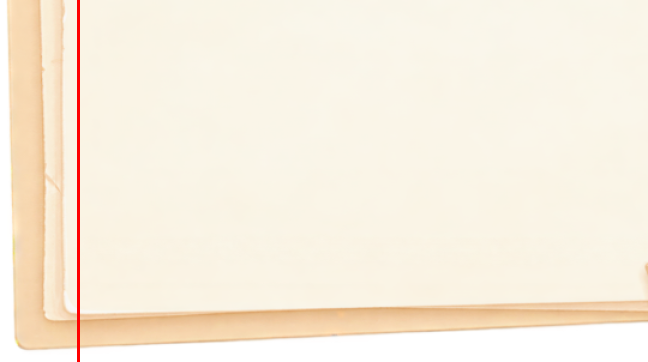
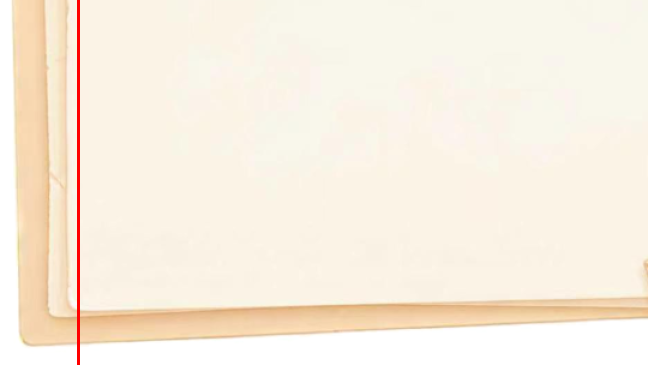
小程序: 信纸九宫格换新构图切图,白底 JPG 转真透明重切 v4 切片

Changed region(s): [[0.0, 0.0, 1.0, 0.9724], [0.9877, 0.6989, 1.0, 0.7293]]

diff --git a/miniapp/src/features/main/MiniappNestLetter.tsx b/miniapp/src/features/main/MiniappNestLetter.tsx
@@ -6,15 +6,15 @@ import './MiniappNestLetter.scss'
 // 切片由 miniapp/tools/make-letter-paper-slices.mjs 生成，切线见该脚本 SLICE 常量。
 // 文件名带版本号（-v2/-v3）：同路径图片会被开发者工具缓存供旧图，换图必须升文件名。
 const paperTiles = {
-  tl: require('../../assets/nest/letter-paper-tl-v2.png'),
-  tc: require('../../assets/nest/letter-paper-tc-v2.png'),
-  tr: require('../../assets/nest/letter-paper-tr-v2.png'),
-  ml: require('../../assets/nest/letter-paper-ml-v2.png'),
-  mc: require('../../assets/nest/letter-paper-mc-v2.png'),
-  mr: require('../../assets/nest/letter-paper-mr-v2.png'),
-  bl: require('../../assets/nest/letter-paper-bl-v2.png'),
-  bc: require('../../assets/nest/letter-paper-bc-v2.png'),
-  br: require('../../assets/nest/letter-paper-br-v3.png'),
+  tl: require('../../assets/nest/letter-paper-tl-v4.png'),
+  tc: require('../../assets/nest/letter-paper-tc-v4.png'),
+  tr: require('../../assets/nest/letter-paper-tr-v4.png'),
+  ml: require('../../assets/nest/letter-paper-ml-v4.png'),
+  mc: require('../../assets/nest/letter-paper-mc-v4.png'),
+  mr: require('../../assets/nest/letter-paper-mr-v4.png'),
+  bl: require('../../assets/nest/letter-paper-bl-v4.png'),
+  bc: require('../../assets/nest/letter-paper-bc-v4.png'),
+  br: require('../../assets/nest/letter-paper-br-v4.png'),
 }
 
 const PAPER_TILE_NAMES = ['tl', 'tc', 'tr', 'ml', 'mc', 'mr', 'bl', 'bc', 'br'] as Array<keyof typeof paperTiles>

diff --git a/miniapp/src/features/main/miniappPresentation.test.ts b/miniapp/src/features/main/miniappPresentation.test.ts
@@ -169,9 +169,9 @@ describe('miniapp ui presentation rules', () => {
 
     expect(nestView).toContain('<MiniappNestLetter')
     expect(nestView).toContain('记录你和小多利的共同生活。')
-    expect(component).toContain('letter-paper-tl-v2.png')
-    expect(component).toContain('letter-paper-mc-v2.png')
-    expect(component).toContain('letter-paper-br-v3.png')
+    expect(component).toContain('letter-paper-tl-v4.png')
+    expect(component).toContain('letter-paper-mc-v4.png')
+    expect(component).toContain('letter-paper-br-v4.png')
     expect(component).not.toContain('letter-paper.png\'')
     expect(component).toContain('<XiaoduoliBoxScene')
     expect(component).not.toContain('empty-puppy.png')
@@ -188,8 +188,8 @@ describe('miniapp ui presentation rules', () => {
     expect(styles).toContain('&--br { grid-area: 3 / 3; }')
     expect(styles).not.toContain('.nest-letter__plant')
     expect(styles).toContain('.nest-letter__body')
-    expect(manifest).toContain('nest/letter-paper-tl-v2.png')
-    expect(manifest).toContain('nest/letter-paper-br-v3.png')
+    expect(manifest).toContain('nest/letter-paper-tl-v4.png')
+    expect(manifest).toContain('nest/letter-paper-br-v4.png')
     expect(manifest).not.toContain('nest/letter-paper.png"')
     expect(manifest).not.toContain('nest/empty-puppy.png')
     expect(manifest).not.toContain('nest/empty-plant-large.png')

diff --git a/miniapp/src/features/main/MiniappNestLetter.scss b/miniapp/src/features/main/MiniappNestLetter.scss
@@ -16,10 +16,10 @@
   overflow: hidden;
 }
 
-// 切线比例来自 tools/make-letter-paper-slices.mjs（内容 720×549，切线 left 65 / right 504 / top 210 / bottom 296）：
-// 轨道按 680rpx 卡宽 × 680/720 自然比例折算（61 / 204 / 198 / 239），
+// 切线比例来自 tools/make-letter-paper-slices.mjs（v2 源图内容 720×553，切线 left 65 / right 504 / top 212 / bottom 298）：
+// 轨道按 680rpx 卡宽 × 680/720 自然比例折算（61 / 204 / 200 / 241），
 // 中列宽度恰好等于切片自然宽、只有中行纵向拉伸，且中带是纯色纸面净区，接缝无错位；
-// br 块用手动微调版 letter-paper-br-v3.png（信封装饰下移 7px），脚本不覆盖
+// 全部 9 块由脚本统一输出（v4 起不再有 br 手调版）
 .nest-letter__paper {
   position: absolute;
   top: 0;
@@ -28,7 +28,7 @@
   left: 0;
   display: grid;
   grid-template-columns: 61rpx 1fr 204rpx;
-  grid-template-rows: 198rpx 1fr 239rpx;
+  grid-template-rows: 200rpx 1fr 241rpx;
 }
 
 .nest-letter__tile {

diff --git a/docs/features/miniapp.md b/docs/features/miniapp.md
@@ -38,7 +38,7 @@ flowchart LR
 ### 小程序主界面补充
 
 - 小窝、消息、我的页标题下保留简介；主内容区上边距收紧，底部导航位置不变。
-- 无好友时，小窝邀请界面上方是小多利在纸箱里探头左顾右盼，中部信纸信件（九宫格切片渲染：四角固定不变形、四边单轴拉伸、中心净区补余量；整封信不分段，完整平铺在白纸净区内，不滚动），下方领养提示（小多利独一无二、只能养一只、请认真选择一起养的对象）；底部为邀请分享按钮。注意：`letter-paper-br-v3.png` 内的信封装饰已从切片位置手动下移 7px（若重跑 `make-letter-paper-slices.mjs` 需重做该偏移）；切片文件名带版本号（-v2/-v3），因同路径图片会被开发者工具缓存供旧图，换图必须升文件名。箱中待机为原图直出 + 眼部木偶拆解方案：身体层（`xiaoduoli-body.png`）是原图直出、一个像素不改；眼部三层全部从同一原图确定性裁切/采样生成——眼眶层（`xiaoduoli-eyes.png`，瞳孔原位以采样虹膜色填充）、瞳孔层（`xiaoduoli-pupils.png`，圆盘裁切）、眼睑层（`xiaoduoli-lids.png`，按眼上下毛色渐变绘制闭眼状态）；静止时与原图逐像素一致，眨眼=眼睑淡入+瞳孔压扁，瞟眼=瞳孔在眼眶内滑动（±1.3%）；各图层 446×314 同坐标叠放，显式 rpx 尺寸对位，瞳孔支点由出件脚本自动生成；领域层按邀请种子生成随机时间线，做眨眼、双眨、左右瞟和小跳，同一房间回放一致，并支持 `prefers-reduced-motion` 降级为静态图。纸箱动画底下铺夜景街角背景（`xiaoduoli-street-v13.png`，贴寻主启事的砖墙与路灯；从 source 原图整幅直切 750:406 舞台比例，边缘烧焦晕染按最暗通道亮度映射为真 alpha；白 matte 内左右两边的炭色云纹靠彩度（chroma≥8）识别恢复——白底无彩度归零、有彩度云纹按彩度强度回填半透明，使左右与上下同为烧焦云撕形朦胧渐隐，画布四周再叠 12~14px 线性 alpha 渐隐兜底保证贴合屏幕边无硬线；740×401 PNG 入包，`aspectFill` 铺满舞台、左右贴屏幕两边，z-index 0 垫底，动画各层照常在其上方；箱体与小多利按 0.58 缩小：箱高 35.5%（底距 5%）、木偶 192×134rpx（整体较原图缩小并上移），落点与眼神动画随 rpx 等比缩放）。
+- 无好友时，小窝邀请界面上方是小多利在纸箱里探头左顾右盼，中部信纸信件（九宫格切片渲染：四角固定不变形、四边单轴拉伸、中心净区补余量；整封信不分段，完整平铺在白纸净区内，不滚动），下方领养提示（小多利独一无二、只能养一只、请认真选择一起养的对象）；底部为邀请分享按钮。切片文件名带版本号（当前 -v4），因同路径图片会被开发者工具缓存供旧图，换图必须升文件名。箱中待机为原图直出 + 眼部木偶拆解方案：身体层（`xiaoduoli-body.png`）是原图直出、一个像素不改；眼部三层全部从同一原图确定性裁切/采样生成——眼眶层（`xiaoduoli-eyes.png`，瞳孔原位以采样虹膜色填充）、瞳孔层（`xiaoduoli-pupils.png`，圆盘裁切）、眼睑层（`xiaoduoli-lids.png`，按眼上下毛色渐变绘制闭眼状态）；静止时与原图逐像素一致，眨眼=眼睑淡入+瞳孔压扁，瞟眼=瞳孔在眼眶内滑动（±1.3%）；各图层 446×314 同坐标叠放，显式 rpx 尺寸对位，瞳孔支点由出件脚本自动生成；领域层按邀请种子生成随机时间线，做眨眼、双眨、左右瞟和小跳，同一房间回放一致，并支持 `prefers-reduced-motion` 降级为静态图。纸箱动画底下铺夜景街角背景（`xiaoduoli-street-v13.png`，贴寻主启事的砖墙与路灯；从 source 原图整幅直切 750:406 舞台比例，边缘烧焦晕染按最暗通道亮度映射为真 alpha；白 matte 内左右两边的炭色云纹靠彩度（chroma≥8）识别恢复——白底无彩度归零、有彩度云纹按彩度强度回填半透明，使左右与上下同为烧焦云撕形朦胧渐隐，画布四周再叠 12~14px 线性 alpha 渐隐兜底保证贴合屏幕边无硬线；740×401 PNG 入包，`aspectFill` 铺满舞台、左右贴屏幕两边，z-index 0 垫底，动画各层照常在其上方；箱体与小多利按 0.58 缩小：箱高 35.5%（底距 5%）、木偶 192×134rpx（整体较原图缩小并上移），落点与眼神动画随 rpx 等比缩放）。
 - 好友接受邀请后，小窝仍是同一套箱中探头和信件，只把底部按钮换成「玩家已接受邀请解锁小多利~」；点按钮后播放从箱子跳出、彩带和星光，随后进入站立小多利与互动。已有小窝在本机记为已解锁，不会重播。
 - 锁定/空状态信件场景（`shouldLockNestPageScroll` 为 true）由 `MiniappNestView` 渲染进 `.nest-lock-layer` 固定全屏层（`position: fixed; inset: 0; z-index: 19; overflow-y: auto`，padding 与 `.home-page` 一致），底部邀请/解锁按钮与反馈文案经 `footer` prop 一并渲染在层内：页面文档流高度归零，真机不再出现「除底部栏外整页可拖动」的页面级滚动（信纸 + 街景 + 底部留白原本合计超过一屏），超矮机型由层内滚动兜底；loading 与解锁后的活跃态仍走原文档流，消息/日历/我的页不受影响。
 - 小窝支持读取共同记忆、删除共同记忆，并展示双方贡献榜。小窝顶部不再展示「好友名 · Lv」房间芯片行；多房间的切换入口在消息页会话列表，避免测试好友名字堆在小窝上方。
@@ -145,15 +145,15 @@ npm run build:weapp --prefix miniapp
 | `navigation/gobang.png` | 256×256 | 18 KB | 游戏中心五子棋入口图标 |
 | `navigation/codeword.png` | 256×256 | 10 KB | 爪印菜单每日暗号图标（挂锁笔记本） |
 | `me/mbti.png` | 128×128 | 4 KB | 我的页性格类型入口图标 |
-| `nest/letter-paper-tl-v2.png` | 65×210 | 9 KB | 无好友小窝信纸九宫格左上角 |
-| `nest/letter-paper-tc-v2.png` | 439×210 | 19 KB | 信纸九宫格顶带（含信封翻盖与图钉，切线过其下方纸面净区，固定不拉伸） |
-| `nest/letter-paper-tr-v2.png` | 216×210 | 14 KB | 信纸九宫格右上角（含木夹与翻盖） |
-| `nest/letter-paper-ml-v2.png` | 65×86 | 5 KB | 信纸九宫格左边条（纯竖向边带，随中行纵向拉伸） |
-| `nest/letter-paper-mc-v2.png` | 439×86 | 11 KB | 信纸九宫格中心净区（纯色纸面，随卡片高度纵向拉伸） |
-| `nest/letter-paper-mr-v2.png` | 216×86 | 8 KB | 信纸九宫格右边条（纯竖向边带，随中行纵向拉伸） |
-| `nest/letter-paper-bl-v2.png` | 65×253 | 12 KB | 信纸九宫格左下角 |
-| `nest/letter-paper-bc-v2.png` | 439×253 | 14 KB | 信纸九宫格底带（切线过爪印上方纸面净区，固定不拉伸） |
-| `nest/letter-paper-br-v3.png` | 216×253 | 7 KB | 信纸九宫格右下角（含爪印、爱心与小信封装饰） |
+| `nest/letter-paper-tl-v4.png` | 65×212 | 6 KB | 无好友小窝信纸九宫格左上角 |
+| `nest/letter-paper-tc-v4.png` | 439×212 | 14 KB | 信纸九宫格顶带（含信封翻盖与图钉，切线过其下方纸面净区，固定不拉伸） |
+| `nest/letter-paper-tr-v4.png` | 216×212 | 12 KB | 信纸九宫格右上角（含木夹与翻盖） |
+| `nest/letter-paper-ml-v4.png` | 65×86 | 3 KB | 信纸九宫格左边条（纯竖向边带，随中行纵向拉伸） |
+| `nest/letter-paper-mc-v4.png` | 439×86 | 3 KB | 信纸九宫格中心净区（纯色纸面，随卡片高度纵向拉伸） |
+| `nest/letter-paper-mr-v4.png` | 216×86 | 4 KB | 信纸九宫格右边条（纯竖向边带，随中行纵向拉伸） |
+| `nest/letter-paper-bl-v4.png` | 65×255 | 7 KB | 信纸九宫格左下角 |
+| `nest/letter-paper-bc-v4.png` | 439×255 | 14 KB | 信纸九宫格底带（切线过爪印上方纸面净区，固定不拉伸） |
+| `nest/letter-paper-br-v4.png` | 216×255 | 17 KB | 信纸九宫格右下角（含爪印、爱心与小信封装饰） |
 | `nest/xiaoduoli-box.png` | 520×440 | 11 KB | 邀请/待解锁纸箱 |
 | `nest/xiaoduoli-street-v13.png` | 740×401 | 169 KB | 待解锁纸箱夜景街角背景（原图直切，四边烧焦晕染+炭色云纹转真透明朦胧渐隐，左右贴边） |
 | `nest/xiaoduoli-body.png` | 446×314 | 34 KB | 箱中探头身体层（原图直出，未作任何修补） |

diff --git a/docs/context.md b/docs/context.md
@@ -1,5 +1,16 @@
 # docs context
 
+## 2026-08-29（信纸九宫格换新图：白底 JPG 转真透明重切 v4）
+
+- **原因**：验收反馈——信纸换新构图切图（纸叠+翻盖+木夹+爪印+小信封，原图为白底 JPG）。
+- **修改**：
+  - `design-assets/nest/letter-paper-source-v2.png`：新源图归档（gitignore，仅本地）；白底经边界洪泛 + 亮度渐变 alpha 转真透明，纸叠边缘柔和羽化
+  - `miniapp/tools/make-letter-paper-slices.mjs`：源图指向 v2，切线重标定（内容 720×553，切线 left 65 / right 504 / top 212 / bottom 298），9 块全部由脚本输出，切片文件名升为 `-v4`
+  - `miniapp/src/assets/nest/`：删除 9 块 v2/v3 旧切片，新增 9 块 v4 切片（过 TinyPNG）
+  - `MiniappNestLetter.tsx/.scss`：切片引用升 v4；轨道行高 198/239 → 200/241rpx
+  - `miniappPresentation.test.ts`：切片文件名断言升 v4
+  - `docs/features/miniapp.md`：信纸描述与资源表同步（删除 br 手调 7px 说明）；`docs/assets/asset-manifest.json`：9 块切片与 source 路径同步
+
 ## 2026-08-28（游戏中心页首插画换趴窝小多利）
 
 - **原因**：验收反馈——一起玩页首右侧改用小多利趴在窝垫上的插画。
